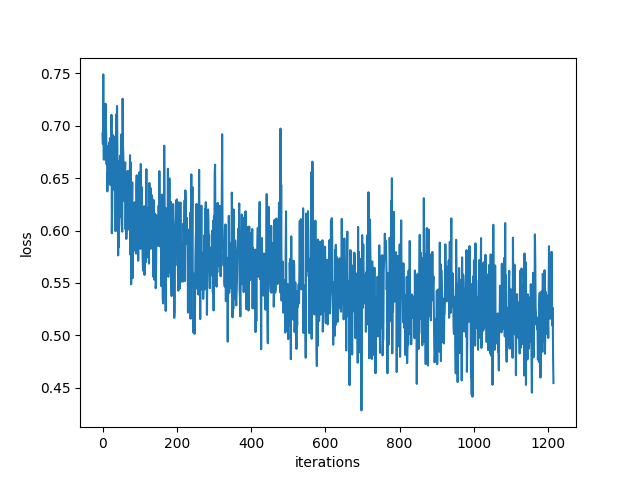
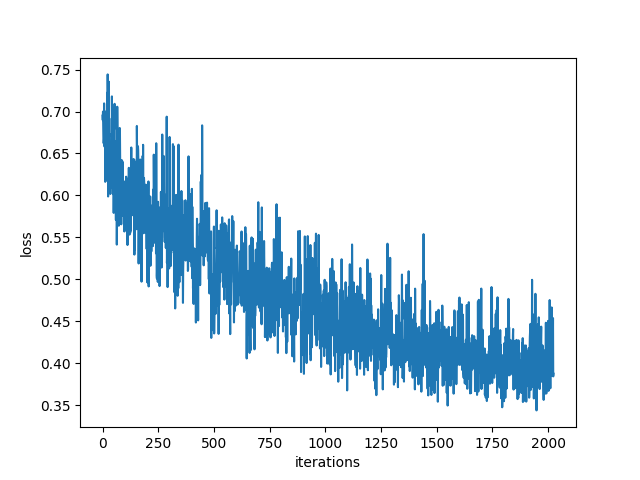
Extra epochs

diff --git a/Nick_tests/replicate/gender_model.py b/Nick_tests/replicate/gender_model.py
@@ -234,9 +234,9 @@ print("defined model")
 model.type(dtype)
 model.train()
 loss_fn = nn.CrossEntropyLoss().type(dtype)
-optimizer = optim.Adam(model.parameters(), lr=5e-5,weight_decay=1e-1)
+optimizer = optim.Adam(model.parameters(), lr=5e-5,weight_decay=5e-2)
 print("start training")
-loss_history,acc_history,val_acc_history=train(train_loader,val_loader, model, loss_fn, optimizer, dtype,num_epochs=15, print_every=17)
+loss_history,acc_history,val_acc_history=train(train_loader,val_loader, model, loss_fn, optimizer, dtype,num_epochs=25, print_every=17)
 
 plt.plot(range(len(loss_history)),loss_history)
 plt.xlabel("iterations")
